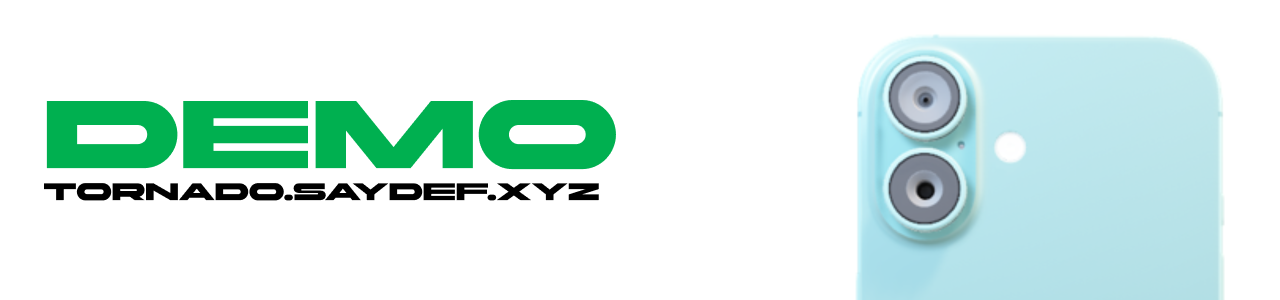
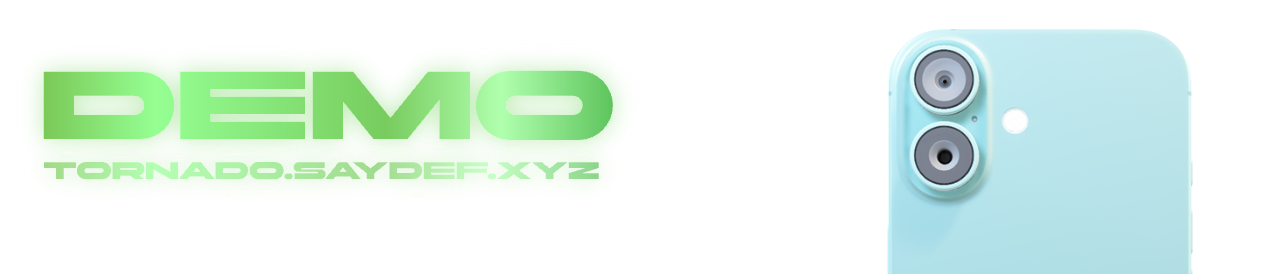
Redesign and redesign README.md , SVG project flowchart, business diagram and more

Changed region(s): [[0.0312, 0.2336, 0.5, 0.6715], [0.6562, 0.0876, 0.9688, 1.0]]

diff --git a/for_rdm/MODULES.md b/for_rdm/MODULES.md
@@ -1,0 +1,16 @@
+<p align="center">
+  <img src="moduls.png" alt="TORNADO">
+</p>
+
+
+| Модуль            | Описание                    | Основной функционал                                                                                                                      |
+|:------------------|:----------------------------|:-----------------------------------------------------------------------------------------------------------------------------------------|
+| **`Application`** | Точка входа в приложение    | Запуск сервера, инициализация Flask инстанса, подключение логгера и связывание всех модулей.                                             |
+| **`Config`**      | Файл конфигурации           | Чтение переменных из `.env`, настройки `SQLALCHEMY_DATABASE_URI`, ключи `SECRET_KEY`, `TURNSTILE_SECRET` и параметры Telegram.           |
+| **`DB Models`**   | Схемы базы данных           | Описание моделей `User` и `Message` через SQLAlchemy, настройка связей между таблицами.                                                  |
+| **`Auth`**        | Система авторизации         | Логика эндпоинтов `/login`, `/api/register`, `/logout`. Хэширование паролей, проверка капчи Turnstile, управление Flask сессиями.        |
+| **`Chat`**        | Логика мессенджера          | Эндпоинты интерфейса `/chat` и API `/api/messages` (GET/POST). Защита от XSS-уязвимостей (`markupsafe.escape`).                          |
+| **`Telegram`**    | Интеграция с TG             | Изолированная работа с `Telethon`. Полноценное внедрение интеграции чатов из Telegram в Tornado.                                         |
+| **`Utils`**       | Вспомогательные инструменты | Функция `get_randomization`, парсинг расписания групп (`get_groups`), получение IP сервера, проверка лицензионного ключа (`verify_key`). |
+| **`System`**      | Системные эндпоинты         | Маршруты `/ping` и `/api/ping`.                                                                                                          |
+| **`Logger`**      | Логирование событий         | Логирование событий, происходящих во время выполнения кода в файл `logs/log-DATE.log` или просто в консоль.                              |

diff --git a/README.md b/README.md
@@ -10,6 +10,10 @@
   </a>
 </p>
 
-<a href="https://github.com/SayGGGo/Tornado/blob/main/TODO.md">Перейти в TODO</a>
-<br>
-<a href="https://github.com/SayGGGo/Tornado/blob/main/SCHEME.md">Перейти в блок-схему</a>
+<h3 align="center">Узнайте больше о проекте</h3>
+<p align="center">
+  <a href="TODO.md"><img src="https://img.shields.io/badge/План_проекта-TODO-34c759?style=for-the-badge&logo=googlesheets&logoColor=white"></a>
+  <a href="SCHEME.md"><img src="https://img.shields.io/badge/Архитектура-Блок--схема-8774e1?style=for-the-badge&logo=mermaid&logoColor=white"></a>
+  <a href="MODULES.md"><img src="https://img.shields.io/badge/Структура-Модули-ff9f0a?style=for-the-badge&logo=python&logoColor=white"></a>
+  <a href="BIZ.md"><img src="https://img.shields.io/badge/БИЗНЕС-ЛОГИКА-ff3b30?style=for-the-badge&logo=target&logoColor=white"></a>
+</p>

diff --git a/for_rdm/SCHEME.md b/for_rdm/SCHEME.md
@@ -1,5 +1,5 @@
 <p align="center">
-  <img src="for_rdm/scheme.png" alt="TORNADO">
+  <img src="scheme.png" alt="TORNADO">
 </p>
 
 ```mermaid
@@ -85,5 +85,7 @@ graph TD
     
     R_PING --> S_VERIFY[Защита эндпоинта\nгенерация hashlib.sha256 из соли и IP]:::server
 ```
+## Если схема выше не загружается, или плохо работает:
+<img src="sh.svg">
 
-### Сделано в Figma, перенесенно через Mermaid и Gemini
+### Сделано в Figma, перенесенно через Mermaid, SVG и Gemini
